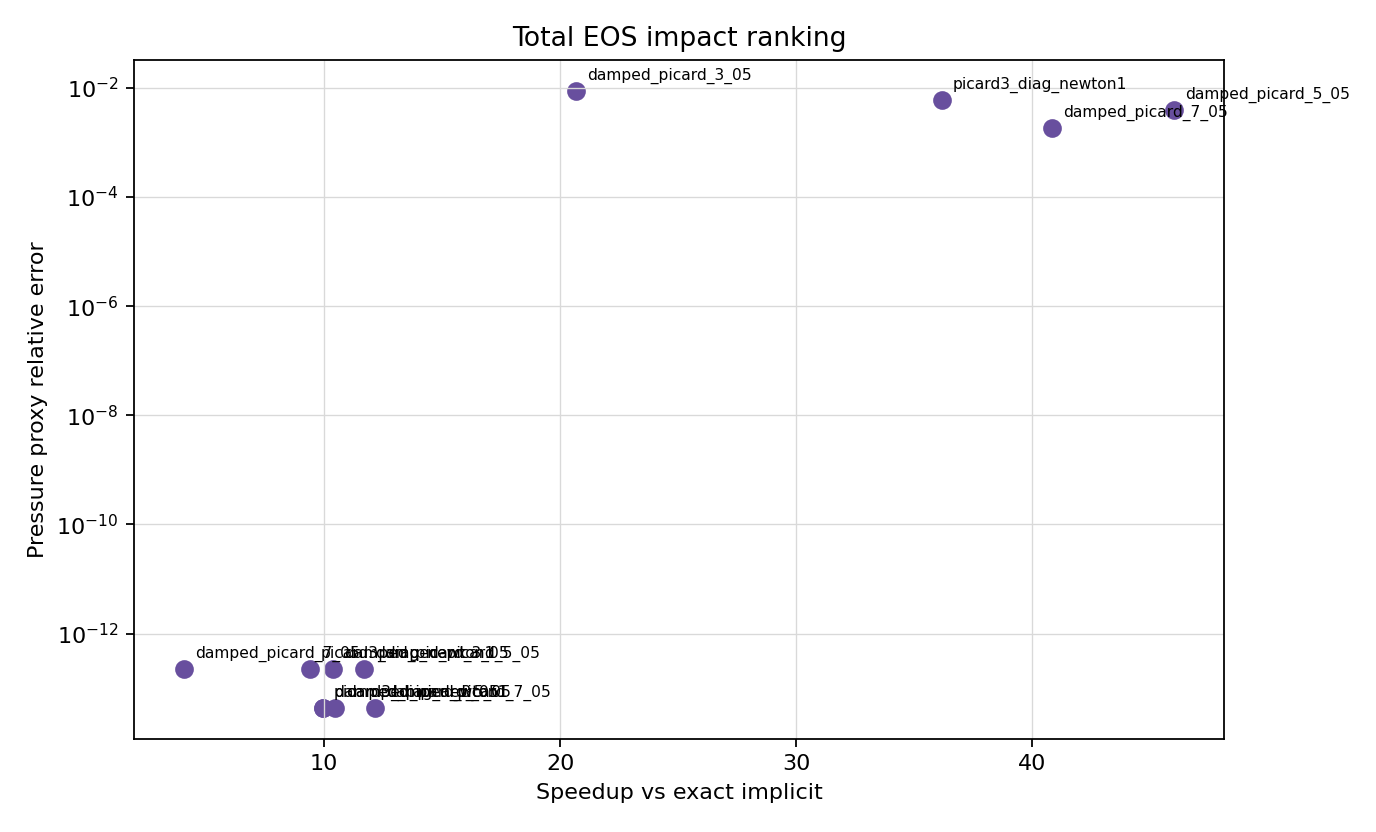
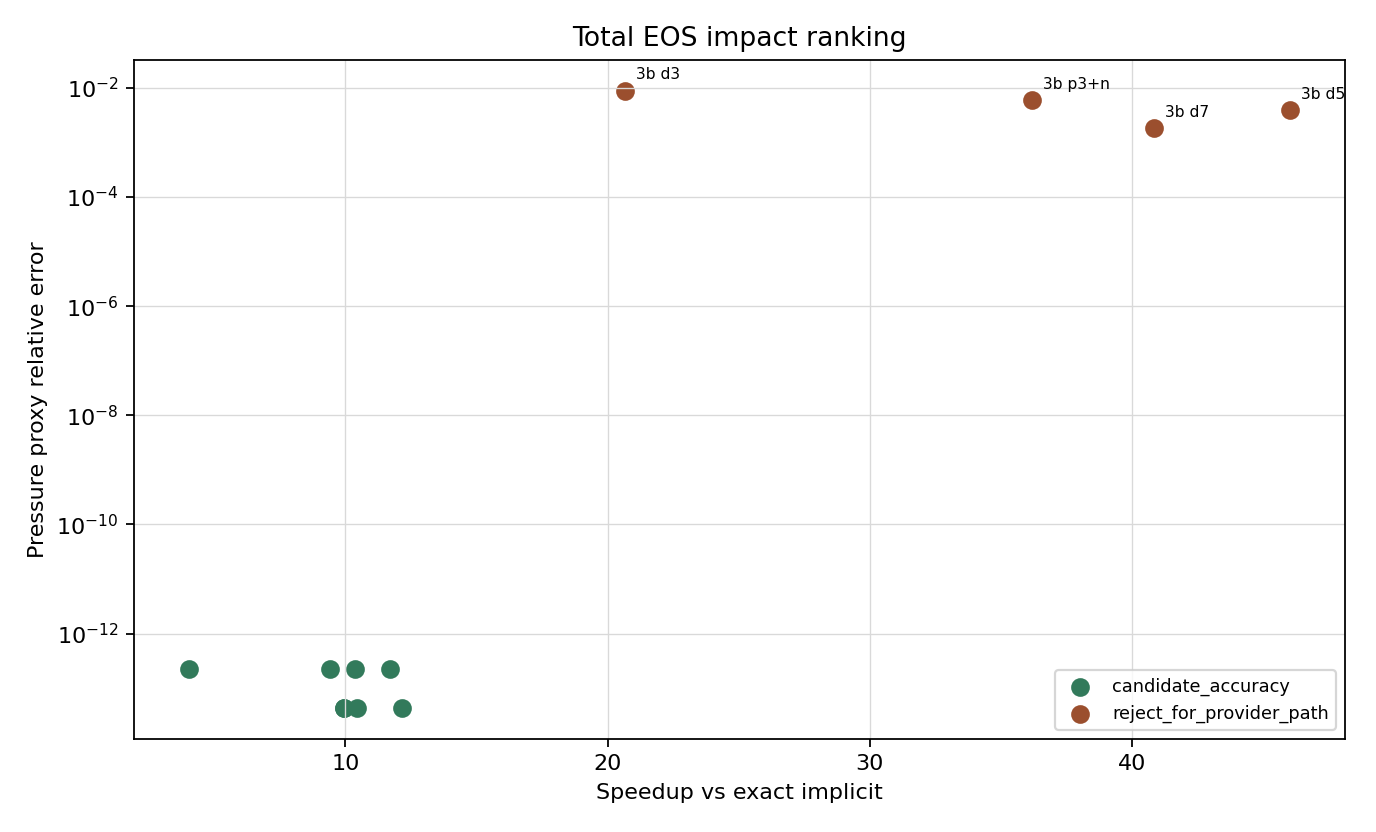
analysis: clarify total eos impact plot

diff --git a/analyses/package_validation/explicit_association_toybox/figures/total_eos_impact/scripts/render_figure.py b/analyses/package_validation/explicit_association_toybox/figures/total_eos_impact/scripts/render_figure.py
@@ -37,14 +37,37 @@ def main() -> None:
     x = [float(row["speedup_vs_exact_implicit"]) for row in plotted]
     y = [max(float(row["pressure_proxy_rel_error"]), 1.0e-14) for row in plotted]
     fig, ax = plt.subplots(figsize=(8.6, 5.2))
-    ax.scatter(x, y, color="#684f9e", s=55)
+    colors = {
+        "candidate_accuracy": "#327a5b",
+        "reject_for_provider_path": "#9b4f2e",
+    }
+    bands = sorted({row["evidence_band"] for row in plotted})
+    for band in bands:
+        indices = [idx for idx, row in enumerate(plotted) if row["evidence_band"] == band]
+        ax.scatter(
+            [x[idx] for idx in indices],
+            [y[idx] for idx in indices],
+            color=colors.get(band, "#684f9e"),
+            s=55,
+            label=band,
+        )
+    aliases = {
+        "damped_picard_3_05": "d3",
+        "damped_picard_5_05": "d5",
+        "damped_picard_7_05": "d7",
+        "picard3_diag_newton1": "p3+n",
+    }
     for xi, yi, row in zip(x, y, plotted, strict=True):
-        ax.annotate(row["closure_name"], (xi, yi), textcoords="offset points", xytext=(5, 5), fontsize=7)
+        if yi < 1.0e-6 and xi < 30.0:
+            continue
+        label = f"{row['case_id'].split('_')[1]} {aliases.get(row['closure_name'], row['closure_name'])}"
+        ax.annotate(label, (xi, yi), textcoords="offset points", xytext=(5, 5), fontsize=7)
     ax.set_yscale("log")
     ax.set_xlabel("Speedup vs exact implicit")
     ax.set_ylabel("Pressure proxy relative error")
     ax.set_title("Total EOS impact ranking")
     ax.grid(color="#d9d9d9", linewidth=0.6)
+    ax.legend(loc="lower right", fontsize=8)
     fig.tight_layout()
     fig.savefig(FIGURE, dpi=160)
     plt.close(fig)